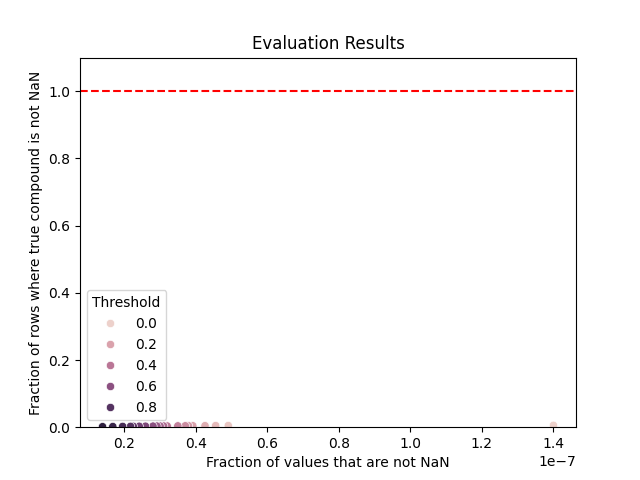
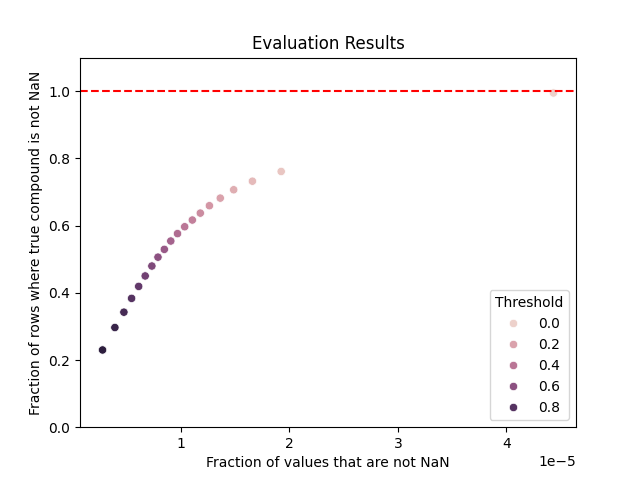
added results for GNPS analysis. This one is biased since MassSpecGym comes from GNPS

diff --git a/src/ms2mol_evaluation/tools/gnps.py b/src/ms2mol_evaluation/tools/gnps.py
@@ -27,7 +27,7 @@ class GNPSEvaluation(Evaluation):
         super().__init__(output_dir)
         if not self.output_dir.exists():
             self.output_dir.mkdir(parents=True, exist_ok=True)
-        self.df_file_path = self.output_dir / "cfmid_scores.csv"
+        self.df_file_path = self.output_dir / "gnps_scores.csv"
         if os.path.exists(self.df_file_path):
             os.remove(self.df_file_path)
 
